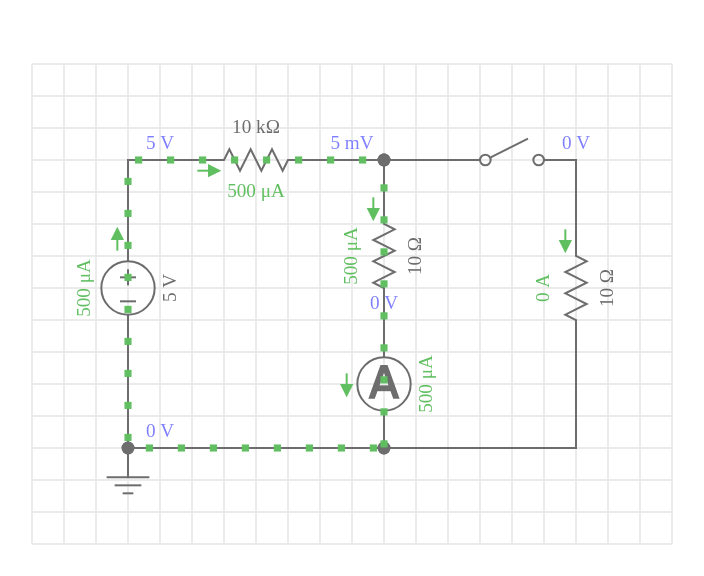
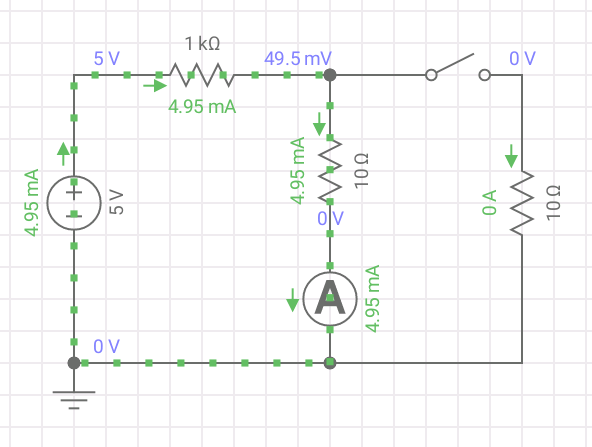
9

diff --git a/Apuntes/1.Circuitos_DC/2- Res interna de amperimetro.md b/Apuntes/1.Circuitos_DC/2- Res interna de amperimetro.md
@@ -3,8 +3,8 @@
 ### Elementos
 
 - Fuente 
-- dos multimetros
-- 1 resistencia, 1 potenciometro
+- 2 Multímetros
+- Resistencias de carbono / Resistencias variables
 
 ### Opción A) Con llave interruptora
 
@@ -74,7 +74,12 @@ $$
 
 Note que si $R_L>>r_A$ entonces $r_A=r_p$.
 
-**Resistencia límite para corriente máxima:**
+**Ordenes de magnitud de los valores a utilizar**
+
+Como necesitamos $R_L>>r_A$, con $R_L\approx 1k$ andamos bien para que valga la aproximación. La tensión de la fuente no debe ser muy alta, con $V_0 \approx 5V$ drenamos corriente del orden de los $2mA$ lo cual es perfectamente resoluble.
+
+
+**Resistencia límite inferior para corriente máxima:**
 
 Para no quemar el amperimetro, es importante verificar el valor maximo de corriente que soporta, dependiendo del multimetro en el orden de los $\sim 100 mA$. Esto nos pone un limite en el valor de las resistencias a utilizar. Con el interruptor cerrado el circuito es un divisor de tensión, luego:
 
@@ -88,18 +93,25 @@ $$
 {R_L} = V_0/I_{max} - r_A = 5000/100 - 1 = 49 \Omega
 $$
 
-  Ese es el limite inferior de la resistencia, el valor elegido tiene que ser mas grande.
+  Ese es el **limite inferior** de la resistencia, el valor elegido tiene que ser mas grande.
 
-### Opción B) Con voltímetro
+### Opción B) Por ley de Ohm
 
-**Procedimiento**
+La idea es variar la tensión en la fuente y medir la tensión que cae en el amperimetro. De esta manera utilizando la medición de corriente que este genera, por ley de ohm se puede estimar la resistencia interna.
 
-La idea es medir la tensión que cae en el amperimetro. de esta manera utilizando la medición de corriente que este genera, por ley de ohm se puede estimar la resistencia interna.
+Utilizamos un divisor de tensión, variando la tensión de la fuente con valores bajos $V_0 \approx 200mV - 1V$ y una resistencia limitante pequeña para obtener buena resolución, del orden de los $100\Omega$ vamos a drenar corriente del orden de los $2mA$.
 
-Utilizamos un divisor de tensión, con una tensión $V_0$ y una resistencia divisora no muy grande, para obtener buena resolución.
-
-![1](images/2-3.png)
+![1](images/res_int_ampe_1.png)
 
 Se recopilan los valores de corriente $i_A$ y de tensión $V$.
 
 Por ley de ohm la resistencia será $R= \frac{V}{i_A}$.
+
+
+### Opción C) Ajustando resistencia limitante
+
+Se setea una fuente con muy bajo voltaje $V_0 \approx 200mV$. Se varia la resistencia limitante hasta que se registra un voltaje de la mitad del entregado por la fuente. Por las propiedades del divisor de tensión, la resistencia del amperimetro será igual a la resistencia limitante.
+
+
+
+![1](images/res_int_ampe_2.png)
